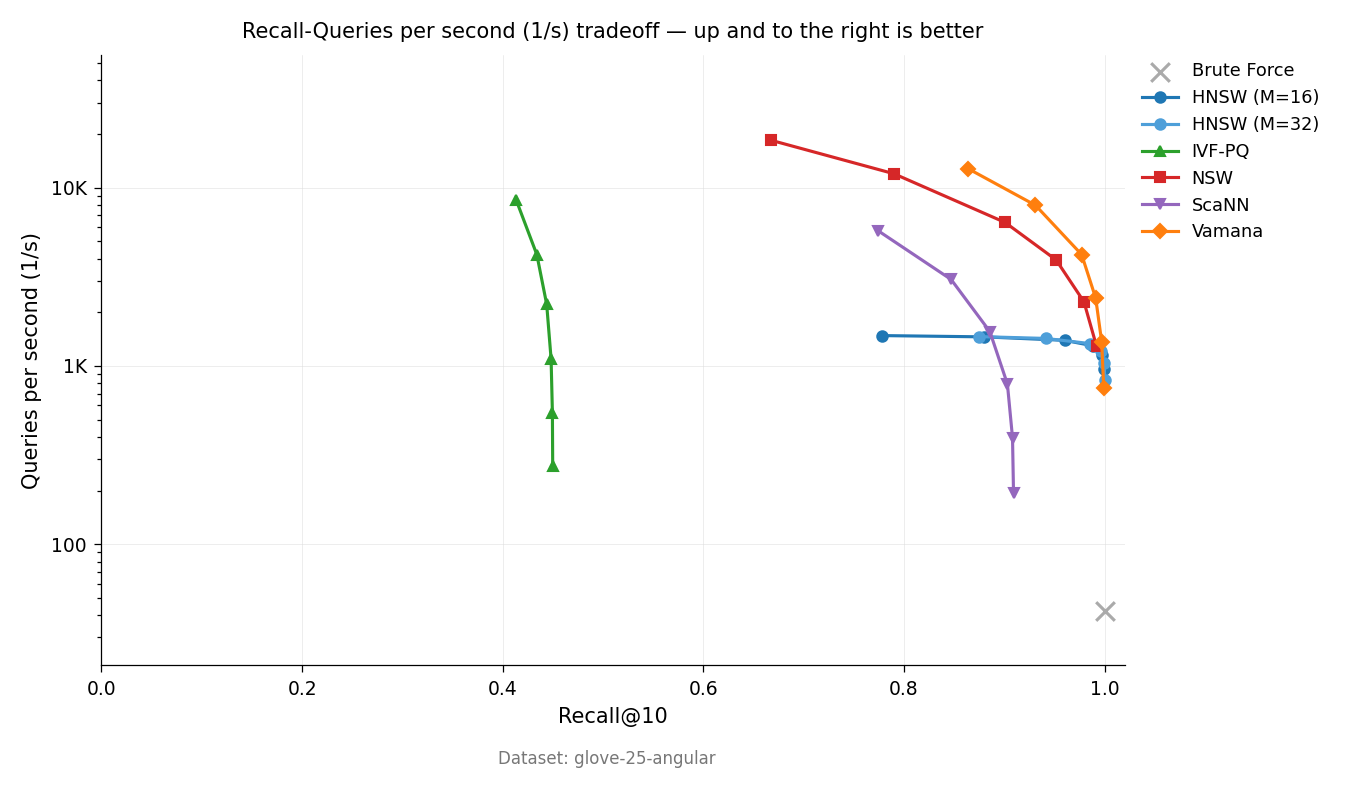
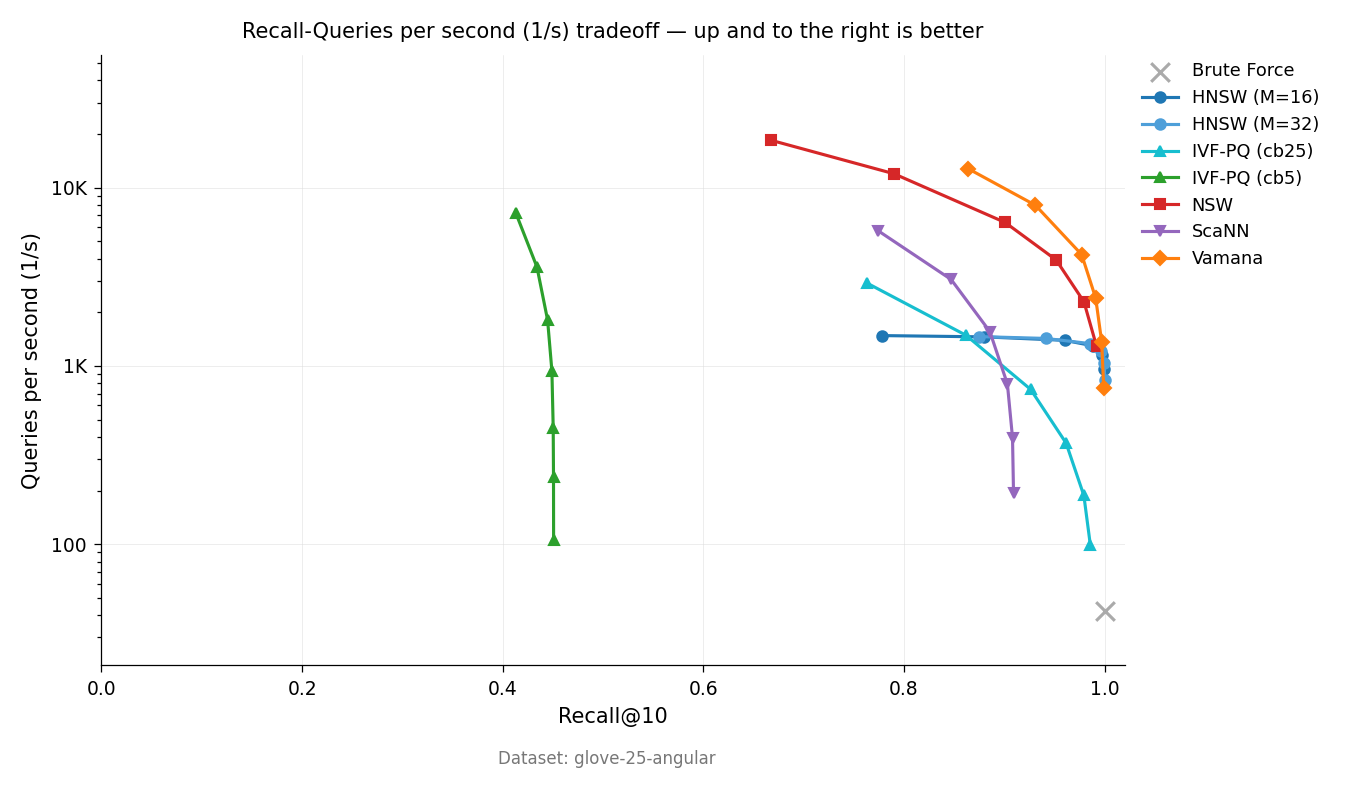
vicinity: add IVF-PQ cb25 benchmark results; regenerate comparison plot

diff --git a/doc/benchmark-results.md b/doc/benchmark-results.md
@@ -82,21 +82,40 @@ Build: ~708s
 Recall ceiling of ~91% is a known limitation of PQ-based re-ranking on 25-d data:
 the PQ residual quantization error is significant relative to the vector dimension.
 
-### IVF-PQ (1024 clusters, 5 codebooks, 256 codebook size)
+### IVF-PQ (1024 clusters, 5 codebooks)
+
+Build: ~1096s
 
 | nprobe | Recall@10 | QPS |
 |--------|-----------|-----|
-| 4 | 41.3% | 8,526 |
-| 8 | 43.4% | 4,208 |
-| 16 | 44.4% | 2,216 |
-| 32 | 44.8% | 1,094 |
-| 64 | 45.0% | 546 |
-| 128 | 45.0% | 273 |
-| 256 | 45.0% | 135 |
+| 4 | 41.3% | 7,238 |
+| 8 | 43.4% | 3,589 |
+| 16 | 44.5% | 1,811 |
+| 32 | 44.9% | 937 |
+| 64 | 45.0% | 451 |
+| 128 | 45.1% | 240 |
+| 256 | 45.1% | 106 |
 
-Recall caps at ~45% on this dataset. Same PQ dimension issue as ScaNN: 5 codebooks
-over 25 dims = 5-d subspaces, which is marginal. Increasing codebooks (e.g., 25) or
-clusters would improve recall at the cost of build time and memory.
+Recall caps at ~45%: 5 codebooks over 25 dims = 5-d subspaces, which is too coarse
+for 25-d data. The ceiling is not a bug — it is inherent to quantization granularity.
+
+### IVF-PQ (1024 clusters, 25 codebooks — 1-d subspaces, equivalent to SQ8)
+
+Build: ~5520s
+
+| nprobe | Recall@10 | QPS |
+|--------|-----------|-----|
+| 4 | 76.3% | 2,920 |
+| 8 | 86.2% | 1,484 |
+| 16 | 92.6% | 738 |
+| 32 | 96.2% | 369 |
+| 64 | 97.9% | 188 |
+| 128 | 98.6% | 99 |
+
+With 25 codebooks (1-d subspaces, equivalent to SQ8 scalar quantization), recall
+reaches 98.6% at the cost of build time (~5× longer) and memory (~5× more for codes).
+This validates that the 45% cb5 ceiling was entirely due to quantization granularity,
+not a structural limitation of IVF-PQ.
 
 ## Brute Force
 
